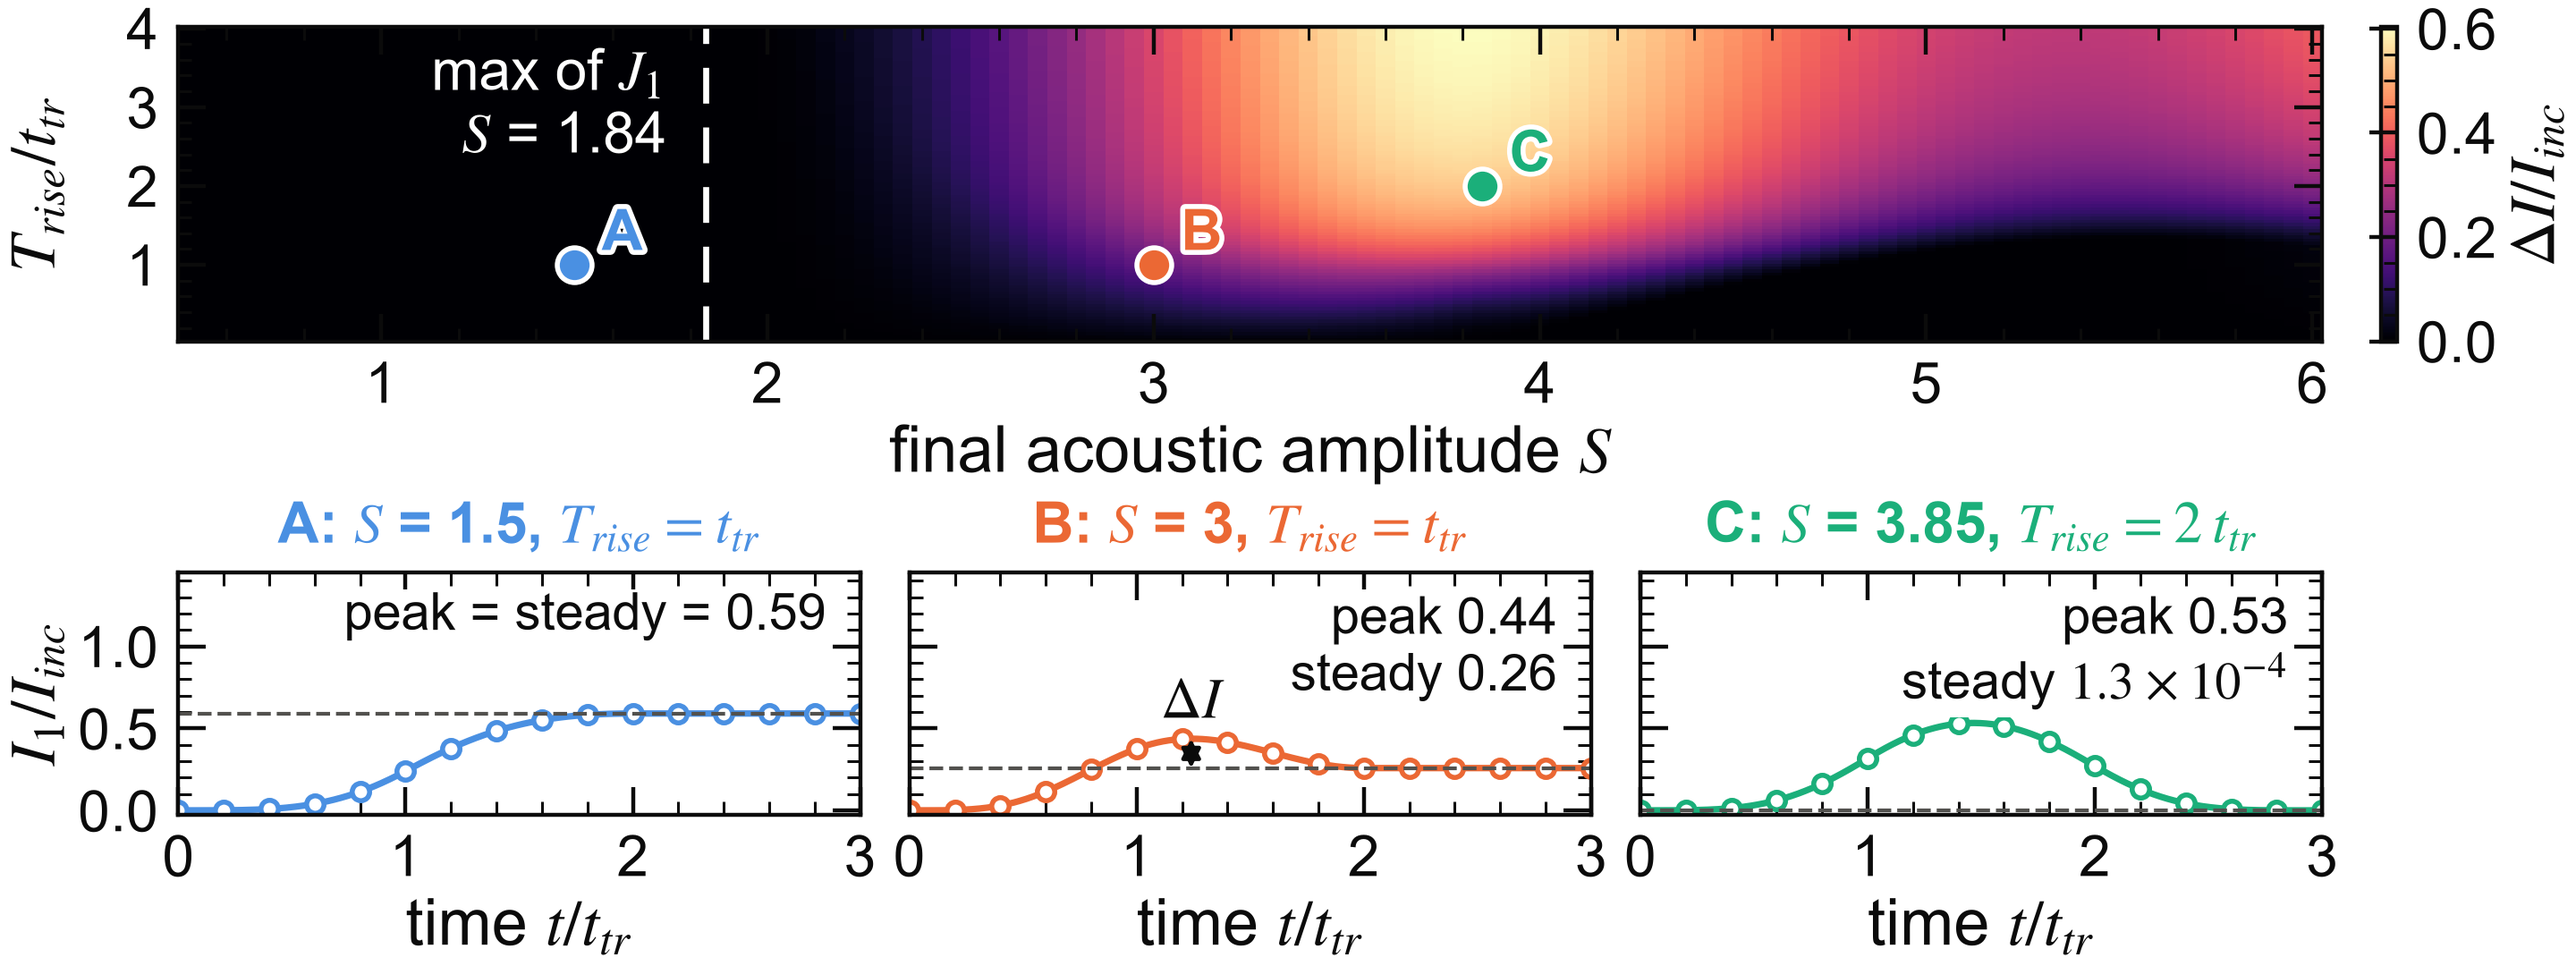
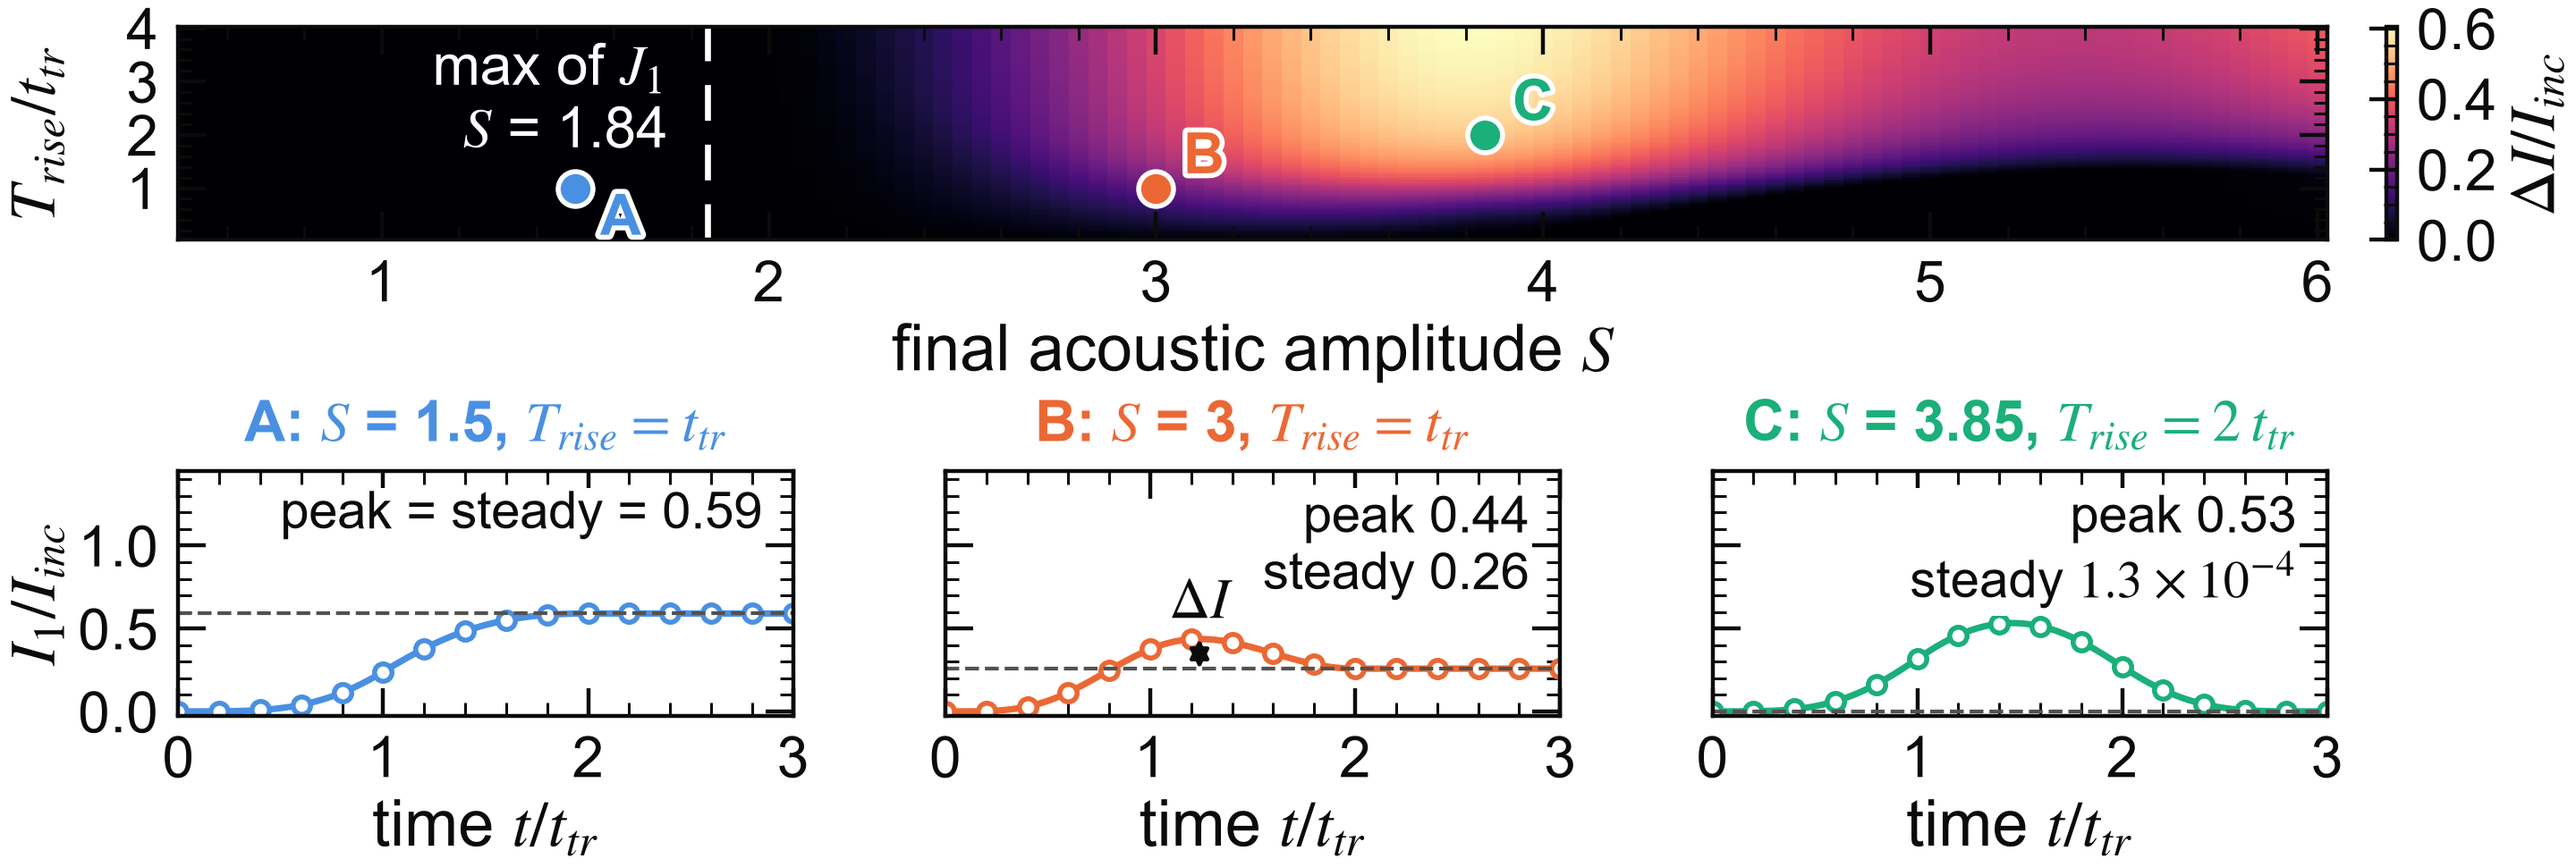
docs(poster): i-QMS v5m, review fixes: time-dependent TT with the quasi-static step, scoped overshoot claim, QR to the current repository URL

diff --git a/explore/make_poster_figs.py b/explore/make_poster_figs.py
@@ -70,7 +70,7 @@ TERM = "satellite"
 def use_iqms():
     global IQMS, OUT, BLUE, LABEL, TERM, F1_H, F7_H, F4_H
     IQMS, OUT, BLUE, LABEL, TERM = True, OUT / "iqms", "#1f4e8c", INK, "sideband"
-    F1_H, F7_H, F4_H = 5.2, 5.4, 3.8  # f1 key inside the axes, f7 map over its A-C traces
+    F1_H, F7_H, F4_H = 5.2, 4.85, 3.8  # f1 key inside the axes, f7 map over its A-C traces
 
 
 def style():
@@ -692,7 +692,7 @@ def f7():
 
         s_max = minimize_scalar(lambda s: -jv(1, s), bounds=(1, 3), method="bounded").x
         fig = plt.figure(figsize=(FIG_W, F7_H), constrained_layout=True)
-        grid = fig.add_gridspec(2, 3, height_ratios=[1.3, 1.0])
+        grid = fig.add_gridspec(2, 3, height_ratios=[1.0, 1.15], wspace=0.14)
         ax = fig.add_subplot(grid[0, :])
         im = ax.pcolormesh(
             data["S"], data["rise"], data["excess"], shading="nearest", cmap="magma", vmin=0
@@ -728,8 +728,9 @@ def f7():
             ax.annotate(
                 letter,
                 (S, rise),
-                xytext=(11, 6),
+                xytext=(10, -2) if letter == "A" else (11, 6),  # A below, clear of the J_1 label
                 textcoords="offset points",
+                va="top" if letter == "A" else "baseline",
                 fontsize=SMALL,
                 fontweight="bold",
                 color=color,
@@ -1310,15 +1311,16 @@ def f12():
     for m, (x, y) in VADILONGA.items():
         axv.plot(v, jv(m, VADILONGA_ARG * v) ** 2, color=ORDER[m], lw=1.8)
         axv.plot(x, y, "osd^v"[m], color=ORDER[m], mec=INK, ls="none")
+    # m = 2-4 crowd at the right edge, so their labels stack above the curves there
     for m, xy in (
         (0, (14, 0.88)),
         (1, (22, 0.37)),
-        (2, (41, 0.26)),
-        (3, (44, 0.185)),
-        (4, (44, 0.065)),
+        (2, (44, 0.58)),
+        (3, (44, 0.48)),
+        (4, (44, 0.38)),
     ):
         axv.text(
-            *xy, f"$m={m}$", color=ORDER[m], fontsize=SMALL - 2, ha="center" if m < 3 else "right"
+            *xy, f"$m={m}$", color=ORDER[m], fontsize=SMALL - 2, ha="center" if m < 2 else "right"
         )
     axv.set(
         xlim=(0, 45),

diff --git a/poster/check_numbers.py b/poster/check_numbers.py
@@ -163,6 +163,8 @@ darwin = wavelength / (2 * LAMBDA_P_LAUE * np.sin(theta_b))
 w1 = j1 * darwin
 row("iqms: Darwin half-width, Si 440 30 keV (urad, not printed)", 0.97, darwin * 1e6, 0.005)
 row("iqms: 0.1 w_1 Laue beam condition (urad)", 0.05, 0.1 * w1 * 1e6, 0.005)
+# i-QMS v5m, section 3: the dropped X-ray time derivative, transit along the beam in symmetric Laue
+row("iqms: X-ray transit L/(c cos theta_B) (ps)", 1.0, L / (C * np.cos(theta_b)) * 1e12, 0.05)
 
 
 def main() -> int:

diff --git a/poster/iqms.md b/poster/iqms.md
@@ -30,23 +30,23 @@ no-break space (U+00A0).
 
 ## * Key result
 
-**Acoustically induced X-ray sidebands form on the acoustic transit time, not on the acoustic period.** After the drive is switched on, each sideband develops only within the strained region behind the acoustic wavefront. Time-dependent Takagi–Taupin calculations in the Laue geometry show that the first sideband is complete at $t_{tr}=L/v_s$: 50.6 ns for a 296 μm Si 440 crystal driven at 2 GHz (acoustic period 0.5 ns). {E1}{E9}{E20}{E28}
+**Acoustically induced X-ray sidebands form on the acoustic transit time, not on the acoustic period.** After a step onset of the drive, each sideband develops only within the strained region behind the acoustic wavefront: its intensity oscillates with the period $\tau_n$ while the wavefront crosses the crystal and reaches the steady-state value at $t_{tr}=L/v_s$. Takagi–Taupin calculations in the Laue geometry give $t_{tr}$ = 50.6 ns for a 296 μm Si 440 crystal driven at 2 GHz (acoustic period 0.5 ns). {E1}{E9}{E20}{E28}
 
 ## Introduction
 
-[[ 0.42 c
+[[ 0.45 c
 
 ![Left: Laue geometry with the acoustic wavefront at $z=v_st$. Right: calculated rocking curve without and with the acoustic wave ($S$ = 1.5) for Si 440, $L$ = 296 μm, convolved with a 10 μrad (FWHM) beam. Satellites of order $n$ appear at $\Delta\theta\propto n$. In a thick crystal the integrated intensity of order $n$ scales as $|J_n(S)|$ rather than $J_n^2(S)$, so the total diffracted intensity increases.](figures/poster/iqms/f13_rocking.png){E0}{E7}
 
-|| 0.58 c
+|| 0.55 c
 
-- **Background.** The dynamical theory of X-ray diffraction in acoustically excited crystals gives the stationary sideband intensities (Entin 1977; Iolin & Entin 1983; Polikarpov & Skadorov 1987). {E7}{E21}{E29}
+- **Background.** The dynamical theory of X-ray diffraction in acoustically excited crystals gives the steady-state sideband intensities (Entin 1977; Iolin & Entin 1983; Polikarpov & Skadorov 1987). {E7}{E21}{E29}
 
-- **Open problem.** The transient response after switch-on, i.e. the time scale on which the sidebands form. {E7}{E21}
+- **Objective.** The time scale on which the sidebands form after the drive is switched on. {E7}{E21}
 
 - **Motivation.** Acoustically modulated crystals are candidates for fast X-ray switching and pulse shaping at storage rings and XFELs; the formation time bounds the switching speed. {E7}{E21}{E50}
 
-- **Approach.** Time-dependent Takagi–Taupin equations in the Laue geometry; numerical results for Si 440 at 30 keV. {E0}{E20}
+- **Approach.** Takagi–Taupin equations with the time-dependent acoustic displacement in the Laue geometry; numerical results for Si 440 at 30 keV. {E0}{E20}
 
 - **Result.** Sideband formation is limited by the acoustic transit time. {E1}{E9}{E28}
 
@@ -56,7 +56,7 @@ no-break space (U+00A0).
 
 [[ 0.66
 
-A coherent acoustic wave $u=u_0\sin(Kz-\Omega t)$ (wavelength $\Lambda_{ac}=2\pi/K$) imposes a travelling phase grating $\mathbf{h}\cdot\mathbf{u}$ on the reflection $\mathbf{h}$ ($h=2\pi/d$). The diffracted beam acquires satellites of order $n$ at $\mathbf{Q}=\mathbf{h}-nK\hat{z}$, shifted in energy by $n\hbar\Omega$. In the kinematic limit the satellite intensities follow the Bessel law $J_n^2(S)$, with $S=hu_0$ the modulation amplitude. {E0}{E7}{E42}
+A coherent acoustic wave $u=u_0\sin(Kz-\Omega t)$ (wavelength $\Lambda_{ac}=2\pi/K$) imposes a travelling phase grating $\mathbf{h}\cdot\mathbf{u}$ on the reflection $\mathbf{h}$ ($h=2\pi/d$). The diffracted beam acquires satellites of order $n$ at $\mathbf{Q}=\mathbf{h}-nK\hat{z}$, shifted in energy by $n\hbar\Omega$. In the kinematic limit the satellite intensities follow the Bessel law $J_n^2(S)$, with $S=\mathbf{h}\cdot\mathbf{u}_0$ the modulation amplitude. {E0}{E7}{E42}
 
 **Previous observations** {E7}{E21}
 
@@ -76,18 +76,16 @@ A coherent acoustic wave $u=u_0\sin(Kz-\Omega t)$ (wavelength $\Lambda_{ac}=2\pi
 
 ## Dynamical theory: Takagi–Taupin equations
 
-For $L\gtrsim\Lambda$ multiple scattering couples the transmitted and diffracted waves and the kinematic result no longer holds. In the symmetric Laue geometry the Takagi–Taupin (TT) equations (Takagi 1962, 1969; Taupin 1964) for the transmitted amplitude $D_0$ and the diffracted amplitude $D_h$ read {E0}{E20}{E62}
+For $L\gtrsim\Lambda$ multiple scattering couples the transmitted and diffracted waves and the kinematic result no longer holds. In the symmetric Laue geometry the time-dependent Takagi–Taupin (TT) equations (Takagi 1962, 1969; Taupin 1964; Lindberg & Shvyd'ko 2012) for the transmitted amplitude $D_0$ and the diffracted amplitude $D_h$ read {E0}{E20}{E62}
 
-$$ $dD_0/dz=(i\pi/\Lambda)\,e^{i\mathbf{h}\cdot\mathbf{u}}D_h$,  $dD_h/dz=(i\pi/\Lambda)\,e^{-i\mathbf{h}\cdot\mathbf{u}}D_0+i\beta D_h$ {E0}
+$$ $(\partial_z+\frac{1}{c\gamma}\partial_t)D_0=(i\pi/\Lambda)\,e^{i\mathbf{h}\cdot\mathbf{u}}D_h$,  $(\partial_z+\frac{1}{c\gamma}\partial_t)D_h=(i\pi/\Lambda)\,e^{-i\mathbf{h}\cdot\mathbf{u}}D_0+i\beta D_h$ {E0}
 
-where $\Lambda$ is the Pendellösung length (98.8 μm for Si 440 at 30 keV), $\beta$ the deviation from the Bragg condition and $\mathbf{u}(z,t)$ the acoustic displacement. {E0}{E20}{E62}
-
-**Beyond the kinematic limit.** Energy is exchanged between $D_0$ and $D_h$ over the depth (Pendellösung effect). The sideband intensity therefore depends on the crystal thickness and, during the onset of the wave, on time. {E0}{E20}{E44}
+where $\Lambda$ is the Pendellösung length (98.8 μm for Si 440 at 30 keV), $\beta$ the deviation from the Bragg condition, $\mathbf{u}(z,t)$ the acoustic displacement and $\gamma=\cos\theta_B$. The X-ray transit time $L/(c\gamma)\approx1$ ps is much shorter than the acoustic period, so the $\partial_t$ terms are neglected in the calculations: the displacement is frozen during each transit and time enters only through $\mathbf{u}(z,t)$ (quasi-static approximation). Absorption is neglected. {E0}{E20}{E62}
 
 | | Kinematic (Bessel law) | *Dynamical (TT, this work)
-| Thickness | $L\ll\Lambda$ | arbitrary ($L=3\Lambda$ in this work)
+| Thickness | $L\ll\Lambda$ | arbitrary ($L=3\Lambda$ in Secs. 1–4)
 | Scattering | single | multiple, $D_0\leftrightarrow D_h$
-| Time dependence | stationary | transient, strained depth $v_st$
+| Onset of the wave | grows monotonically with the strained depth | oscillates with period $\tau_n$ until $t_{tr}$
 | Result | $J_n^2(S)$ | $I_n(t)$, formation time $\tau_n$ {E0}{E1}{E9}{E20}
 
 ## Sideband formation: transit-time limit
@@ -98,34 +96,34 @@ where $\Lambda$ is the Pendellösung length (98.8 μm for Si 440 at 30 keV), $
 
 || 0.52 c
 
-For satellite $n$ the coupling is reduced by $|J_n(S)|$, and in the two-beam approximation the growing strained layer gives {E1}{E9}{E44}{E54}
+For satellite $n$ the coupling is reduced by $|J_n(S)|$, and in the independent-satellite approximation the growing strained layer gives {E1}{E9}{E44}{E54}
 
 $$ $I_n(t)=\sin^2(\pi t/\tau_n)$, {E1}{E9}
 
 $$ $\tau_n=\Lambda/(v_s\left|J_n(S)\right|)$ {E1}{E9}
 
-for $t<t_{tr}=L/v_s$, with $I_n$ constant for $t>t_{tr}$. The formation time $\tau_n$ is the time in which the wavefront traverses one extinction length $\Lambda/|J_n|$ of satellite $n$. For Si 440 with $S$ = 1.5 and $L$ = 296 μm: $\tau_1$ = 30 ns, $t_{tr}$ = 50.6 ns and a stationary intensity of 0.73. In the Bragg (reflection) geometry the corresponding time is $\tau_1$ = 4.3 ns. {E1}{E9}{E20}{E28}{E85}
+for $t<t_{tr}=L/v_s$, with $I_n$ constant for $t>t_{tr}$. The formation time $\tau_n$ is the time in which the wavefront traverses one extinction length $\Lambda/|J_n|$ of satellite $n$. For Si 440 with $S$ = 1.5 and $L$ = 296 μm: $\tau_1$ = 30 ns, $t_{tr}$ = 50.6 ns and a steady-state intensity of 0.73. In the Bragg (reflection) geometry the corresponding time is $\tau_1$ = 4.3 ns. {E1}{E9}{E20}{E28}{E85}
 
 ]]
 
-![Top: $|D_h(z,t)|^2$ at the first-sideband angle after a step onset (TT, averaged over the acoustic phase). Bottom: intensity at the exit surface, $I_1(t)$. Ahead of the wavefront the crystal is unstrained and $D_h$ propagates unchanged; behind it the field is stationary and depends only on depth. Si 440, $S$ = 1.5, $L$ = 296 μm.](none){E1}{E9}{E20}
+![Top: unconvolved $|D_h(z,t)|^2$ at the centre of the first sideband after a step onset (TT, averaged over the acoustic phase). Bottom: intensity at the exit surface, $I_1(t)$. Ahead of the wavefront the crystal is unstrained and the diffracted intensity remains unchanged; behind it the field is in the steady state and depends only on depth. Si 440, $S$ = 1.5, $L$ = 296 μm.](none){E1}{E9}{E20}
 
 @pair
 
 ## Drive envelope and overshoot
 
-For a drive amplitude ramped linearly over $T_{rise}$, the first sideband exceeds its stationary value only when the final amplitude lies beyond the first maximum of $J_1$ ($S$ = 1.84); otherwise the rise is monotonic. {E15}{E67}
+For a thin crystal ($L=\Lambda/2$) and a drive amplitude ramped linearly over $T_{rise}$, the first sideband exceeds its steady-state value only when the final amplitude lies beyond the first maximum of $J_1$ ($S$ = 1.84); otherwise the rise is monotonic. In the thick crystal of Sec. 4 a step onset overshoots already at $S$ = 1.5, through the oscillation with period $\tau_1$. {E15}{E67}
 
-![Overshoot $\Delta I=I_{max}-I_{steady}$ of the first sideband versus final amplitude $S$ and rise time $T_{rise}/t_{tr}$. Reduced model (independent satellites; lines), verified against the full TT solution (symbols) at 12 points and for cases A–C; dashed: stationary value. Laue geometry, $L=\Lambda/2$ (49 μm Si 440); the $L=3\Lambda$ crystal of Secs. 1–4 has not been scanned. A: monotonic rise. B: maximum above the stationary value. C: final $S$ near the first zero of $J_1$.](figures/poster/iqms/f7_overshoot.png){E15}{E67}
+![Overshoot $\Delta I=I_{max}-I_{steady}$ of the first sideband versus final amplitude $S$ and rise time $T_{rise}/t_{tr}$. Reduced model (independent satellites; lines), verified against the full TT solution (symbols) at 12 points and for cases A–C; dashed: steady-state value. Laue geometry, $L=\Lambda/2$ (49 μm Si 440); the $L=3\Lambda$ crystal of Secs. 1–4 has not been scanned.](figures/poster/iqms/f7_overshoot.png){E15}{E67}
 
 ## Conclusions and outlook
 
-> **Sideband formation is limited by the acoustic transit time** $t_{tr}=L/v_s$. The formation time $\tau_n=\Lambda/(v_s|J_n(S)|)$, not the acoustic period, sets the switching speed (tens of ns in Si). {E1}{E9}{E67}
+> **Sideband formation is limited by the acoustic transit time** $t_{tr}=L/v_s$. The formation time $\tau_n=\Lambda/(v_s|J_n(S)|)$, not the acoustic period, sets the time scale of the transient (tens of ns in Si). {E1}{E9}{E67}
 
 - **Thick crystals.** For $L>\Lambda$ the satellite intensities deviate from the Bessel law, which is recovered for $L\ll\Lambda$. {E0}{E44}
 
-- **Drive envelope.** A ramped drive produces an overshoot only for $S$ beyond the first maximum of $J_1$ (1.84) (Sec. 5). {E15}{E67}
+- **Drive envelope.** In a thin crystal ($L=\Lambda/2$) a ramped drive produces an overshoot only for $S$ beyond the first maximum of $J_1$ (1.84) (Sec. 5). {E15}{E67}
 
-- **Outlook.** Time-resolved measurement on Si 440: $S$ = 1.5 corresponds to $u_0$ = 23 pm (strain $5\times10^{-5}$ at 2 GHz). A beam divergence of 10 μrad resolves the satellites (Sec. 1); tracking a single satellite in time requires a divergence below 0.05 μrad, a fraction of the Darwin half-width. {E20}{E73}{E84}{E92}
+- **Outlook.** Time-resolved measurement on Si 440: $S$ = 1.5 corresponds to $u_0$ = 23 pm (displacement gradient $Ku_0=5\times10^{-5}$ at 2 GHz). A beam divergence of 10 μrad resolves the satellites (Sec. 1); tracking a single satellite in time calls for a divergence of about 0.05 μrad (rms), a tenth of the satellite's rocking half-width. {E20}{E73}{E84}{E92}
 
-![Numerics: TT equations integrated with RK4 and validated against an exact Floquet solution for a periodic drive; the two-beam expressions agree with full TT within 6 % for $\Lambda_{ac}<0.3\,\Lambda$.](none){E0}{E19}{E20}{E31}{E42}{E54}{E62}
+![Numerics: TT equations integrated with RK4 and validated against an exact Floquet solution for a periodic drive; for an acoustically filled crystal the independent-satellite model reproduces the phase-averaged integrated satellite intensities of full TT within 6 % for $\Lambda_{ac}<0.3\,\Lambda$.](none){E0}{E19}{E20}{E31}{E42}{E54}{E62}
